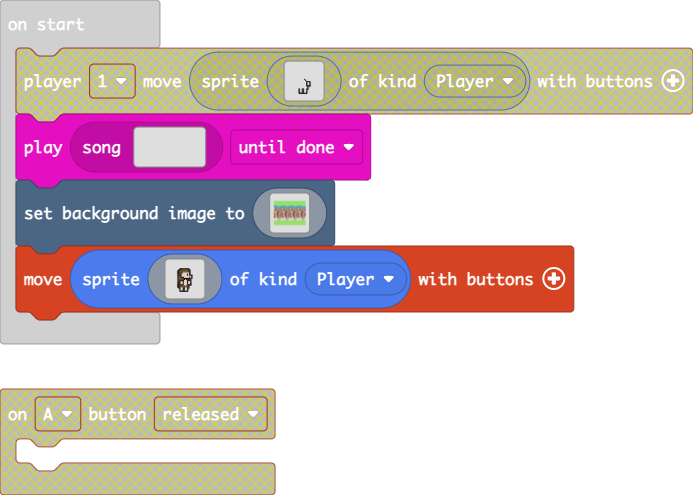
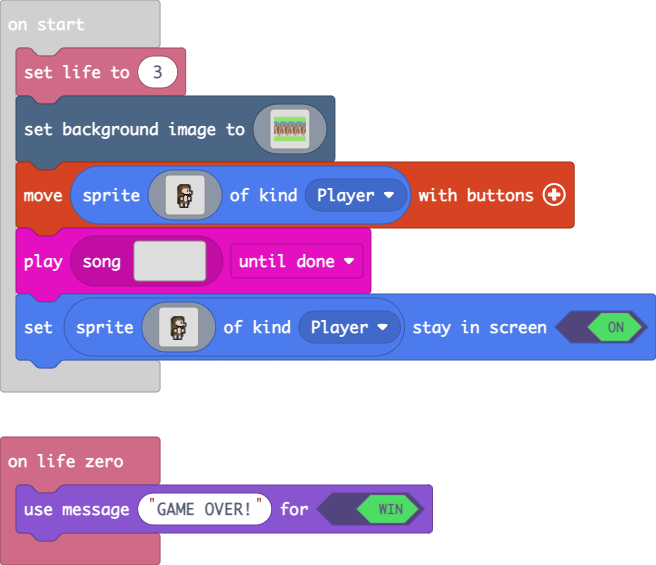
Good good game, monday

diff --git a/main.ts b/main.ts
@@ -1,3 +1,8 @@
+info.onLifeZero(function () {
+    game.setGameOverMessage(true, "GAME OVER!")
+})
+info.setLife(3)
 scene.setBackgroundImage(assets.image`temp background`)
 controller.moveSprite(sprites.create(assets.image`Hedgehog main character`, SpriteKind.Player))
 music.play(music.createSong(hex`00780004080200`), music.PlaybackMode.UntilDone)
+sprites.create(assets.image`Hedgehog main character`, SpriteKind.Player).setStayInScreen(true)
